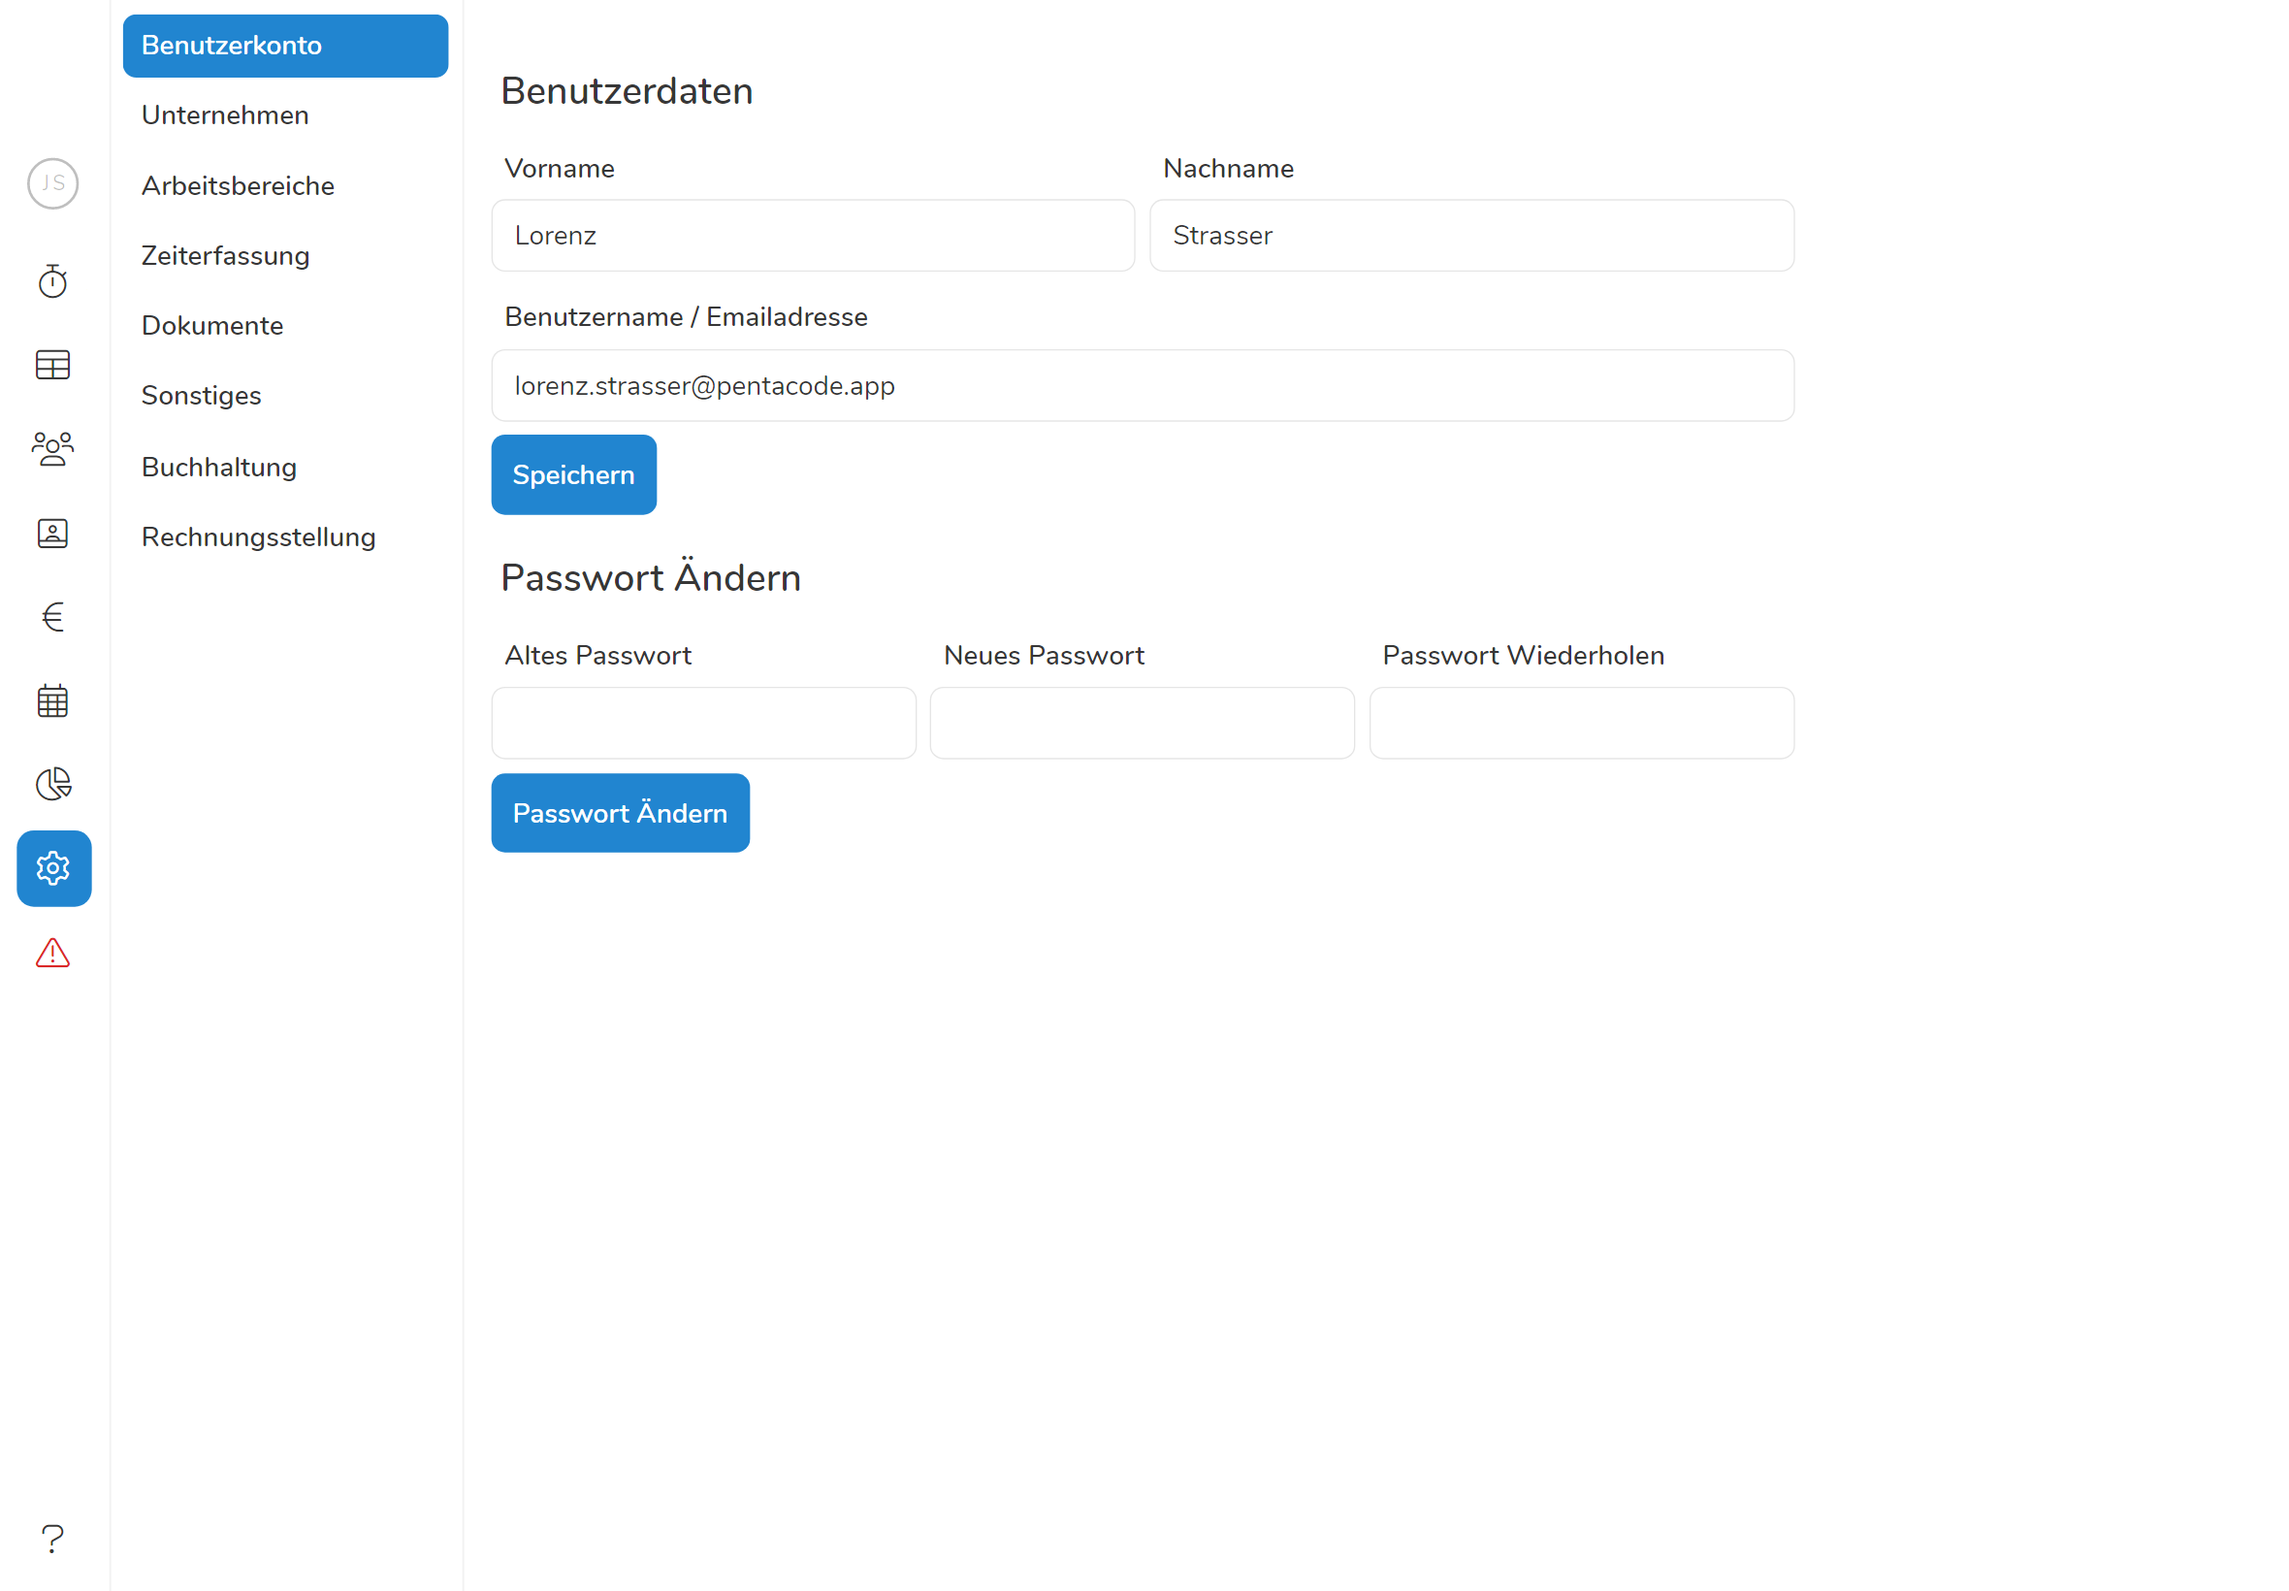
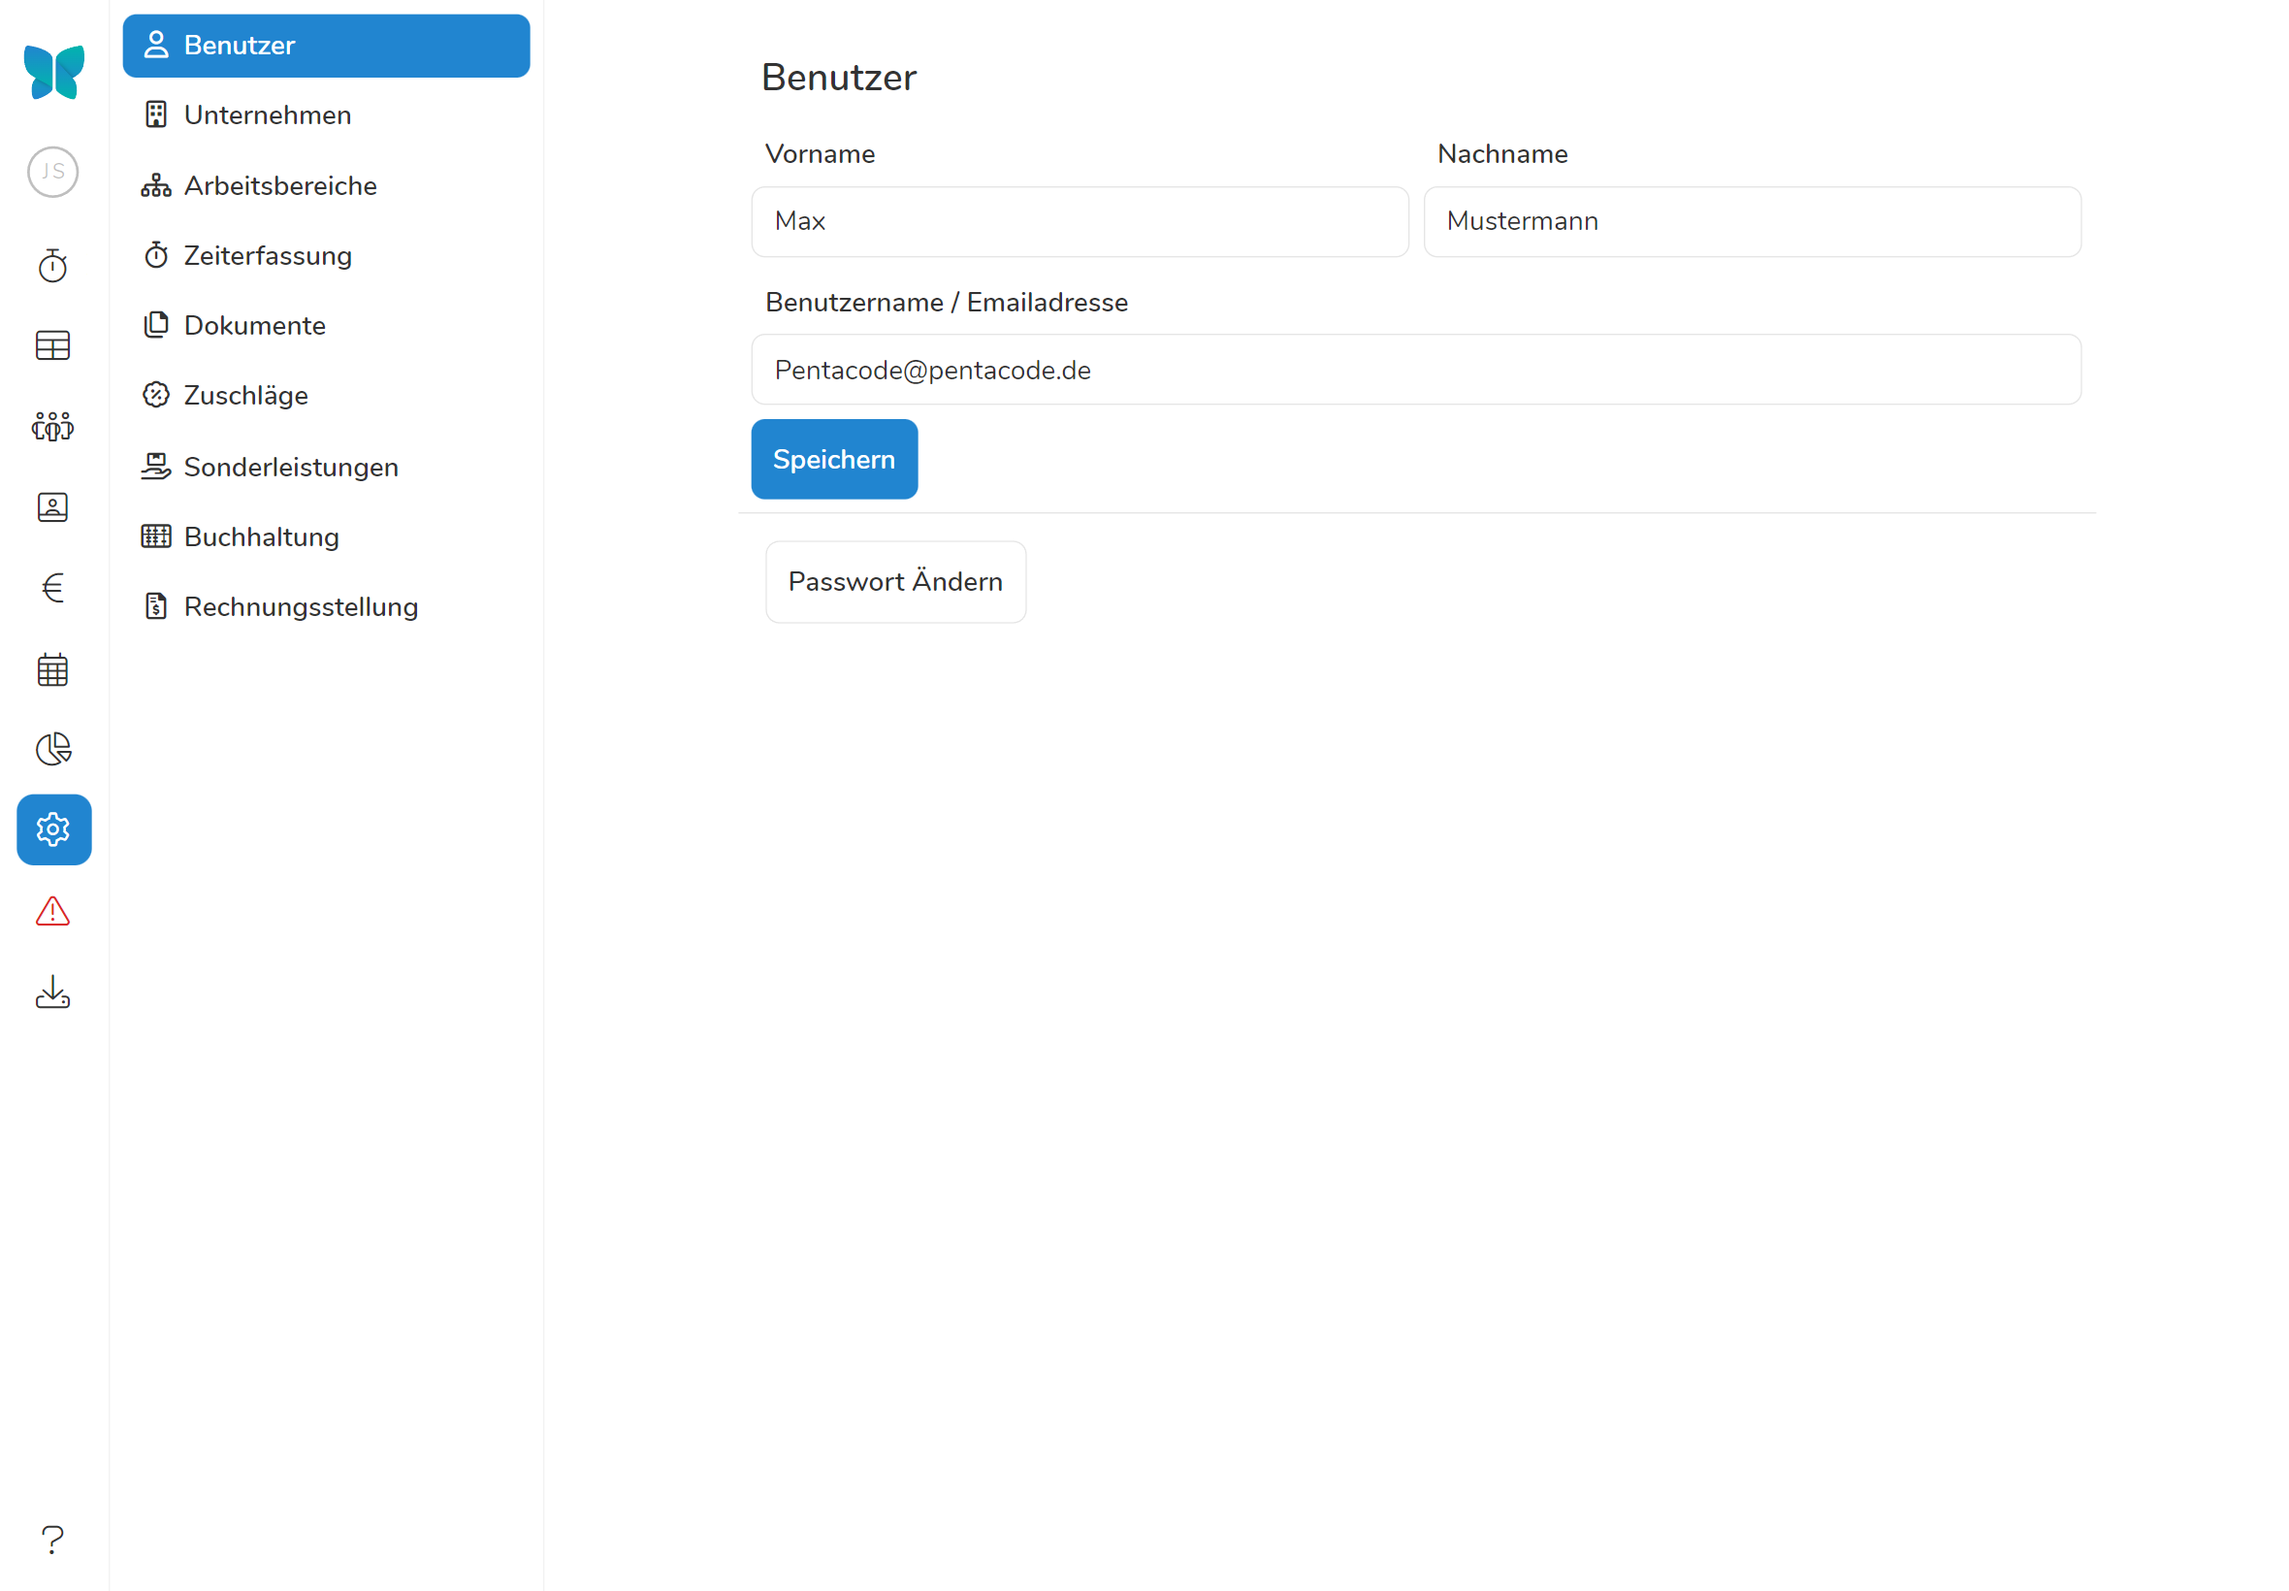
Update Einstellungen arbeitsbereiche+allgemein (#70)

diff --git a/hilfe/handbuch/einstellungen/unternehmen/index.md b/hilfe/handbuch/einstellungen/unternehmen/index.md
@@ -5,9 +5,79 @@ weight: 2
 icon: building
 
 ---
-Die hier hinterlegten Unternehmensdaten dienen lediglich zur allgemeinen Information.
+Unter dem Reiter **Unternehmen** können Sie verschiedene Unternehmendaten hinterlegen und gleichzeitig allgemeine Einstellungen für alle ihre Mitarbeiter treffen. Die Adressdaten dienen dabei lediglich der Information und haben keinen weiteren Einfluss. 
 
-Eine Änderung der Adressdaten hat keinerlei sonstige Auswirkung. 
+## Beginn der Kontoführung
+
+Unter "**Kontoführung ab**" legen Sie fest, ab welchem **Zeitpunkt** die **Arbeitszeitkonten** Ihrer Mitarbeiter in Pentacode geführt werden.
+
+Urlaube, SFN-Zuschläge und Lohnkosten werden in Pentacode auch **bruchteilig berechnet**. Für die Einheitlichkeit der Buchhaltung und eine später bessere Nachvollziehbarkeit ist es jedoch **empfehlenswert**, den **ersten eines Monats** zu wählen.
+
+## Saldierung SFN-Konten
+
+Für die Saldierung von [SFN-Konten](/hilfe/handbuch/mitarbeiter/konten#sfn-konto) bietet Ihnen Pentacode zwei Optionen:
+
+### Exklusive Beitragspflichtige Zuschläge
+
+Ist diese Option gewählt, werden bei der Saldierung des SFN-Kontos nur beitragsfreie Zuschläge berücksichtigt. Dies ist die Standardvariante.
+
+### Inklusive Beitragspflichtige Zuschläge
+
+Ist diese Option gewählt, werden bei der Saldierung des SFN-Kontos neben beitragsfreien Zuschläge auch beitragpflichtige
+Zuschläge berücksichtigt.
+
+## Arbeitszeiten & Konten Festschreiben
+
+Einer der großen Vorteile der Arbeitszeitdokumentation in Pentacode ist der Umstand, dass Sie jederzeit "in die
+Vergangenheit reisen" und Korrekturen an bereits erfassten Arbeitszeiten vornehmen können. Pentacode berechnet dabei
+automatisch alle betroffenen Lohnabrechnungen und Konten neu und liefert damit jederzeit eine **in sich stimmige,
+wiederspruchsfreie Dokumentation**.
+
+Diese Flexibilität bringt allerdings auch Gefahren mit sich. So kann zum Beispiel die Änderung an einer Arbeitszeit in
+an einem bereits abgeschlossenen Monat schnell zu Unstimmigkeiten mit bereits durchgeführten Lohnabrechnungen führen.
+Desweiteren können Änderungen an bestimmten Vertragsdaten oder Zeiterfassungs-Einstellungen ebenfalls zu einer
+ungewünschten, rückwirkenden Neuberechnung von Konten und Lohnabrechungen führen.
+
+Es ist deshalb ratsam, Arbeitszeiten, Mitarbeiterkonten und Lohnabrechnungen in regelmäßigen Abständen festzuschreiben.
+Dies tun sie wie folgt:
+
+1. Navigieren Sie zum Punkt **Einstellungen > Unternehmen**.
+2. Unter dem Punk **Arbeitszeiten & Konten festschreiben**, klicken sie auf den Button {% icon "pencil-alt" %} **Bearbeiten**.
+3. Klicken Sie auf **Zeitraum wählen...** und wählen Sie den Monat, bis zu welchem Arbeitszeiten und Konten festgeschrieben werden sollen.
+4. Klicken sie auf **Bestätigen**.
+
+{% figure caption="Unter dem Punkt Einstellungen > Sonstiges können Sie ein Festschreibungsdatum für Arbeitszeiten und Konten festlegen." %}
+<img src="zeiten_festschreiben.png" />
+{% endfigure %}
+
+## Berechnung Gesetzliche Pause
+
+Als Teil der Arbeitszeitdokumentation überwacht Pentacode automatisch alle erfassten Arbeitszeiten auf bestimmte
+Regelvorstöße. Einer dieser Regeln ist die gesetzlich vorgeschriebene Mindest-Pausenlänge, die von der Dauer der Schicht
+bzw. Arbeitszeit abhängt. Für die Berechnung der gesetzlichen Pause sind zwei Möglichkeiten zur Verfügung gestellt:
+
+### Standard
+
+In diesem Modus werden die Pausen nach der **Anwesenheitszeit** berechnet. Nach **mehr als 6 Stunden** Anwesenheitszeit
+wird eine minimale Pauselänge von **30 Minuten Pause** erwartet, nach insgesamt **mehr als 9 Stunden** kommen weitere
+**15 Minuten** hinzu, also insgesamt 45 Minuten. Konkret sieht die Staffelung wie folgt aus:
+
+| Dauer       | Mindestpause |
+| ----------- | ------------ |
+| <= 6:00     | 0 min        |
+| 6:01 - 9:00 | 30 min       |
+| > 9:00      | 45 min       |
+
+### Iterativ
+
+In diesem Modus werden die **Pausen nach** der **Arbeitszeit** berechnet. Dem Mitarbeiter werden nach mehr als 6 Stunden 30 Minuten Pause abgezogen. Er hat somit 5,5 Stunden gearbeitet. Erst wenn er weitere mehr als 3,5 Stunden gearbeitet hat (insgesamt also mehr als 9 Stunden), fallen weitere 15 Minuten Pause an. Die konkrete Staffelung sieht wie folgt aus:
+
+| Dauer       | Mindestpause |
+| ----------- | ------------ |
+| <= 6:00     | 0 min        |
+| 6:01 - 9:30 | 30 min       |
+| > 9:30      | 45 min       |
+
 
 {% figure caption="Angaben zum Unternehmen und allgemeine Kontaktdaten" %}
 

diff --git a/hilfe/handbuch/einstellungen/arbeitsbereiche/index.md b/hilfe/handbuch/einstellungen/arbeitsbereiche/index.md
@@ -33,7 +33,7 @@ gesetzlich geregelten Feiertage werden automatisch an- und abgewählt. Sie haben
 jedoch immer auch die Option [**manuell Feiertage ab- und anzuwählen**](#feiertage-bearbeiten).
 
 {% figure caption="So legen Sie einen neuen Standort an." %}
-<img src="neuer-standort.png"/>
+<img src="neuer_standort.webp"/>
 {% endfigure %}
 
 Wenn Sie den Standort angelegt haben, legen Sie für diesen Standort die 
@@ -45,13 +45,13 @@ Der neue Standort und seine Abteilungen erscheinen unter dem Menüpunkt "Alle Mi
 
 Wenn Sie einen [neuen Standort anlegen](#neuer-standort) oder
 [bearbeiten](#standort-bearbeiten), werden die Feiertage vorerst standardmäßig
-für das ausgewählte Bundeland festgelegt. Sollten Sie die Feiertage jedoch
+für das ausgewählte Bundesland festgelegt. Sollten Sie die Feiertage jedoch
 ändern wollen, können Sie diese ganz einfach über das Dialogfenster beim
 Bearbeiten des Standorts tun. Klicken Sie dazu auf den Schieberegler, bis dieser bei nicht
-gewünschte Feiertagen weiß erscheint und bei gewünschten Feiertage blau. 
+gewünschten Feiertagen weiß erscheint und bei gewünschten Feiertage blau. 
 
-{% figure caption="Ein neuer Standort soll zwei zusätzliche Feiertage anerkennen." %}
-<img src = "standort_anlegen.gif"/>
+{% figure caption="Die Feiertage eines neuen Standorts sollen angepasst werden." %}
+<img src = "standort_feiertage.gif"/>
 {% endfigure %}
 
 ## Standort bearbeiten
@@ -61,19 +61,13 @@ Sie Angaben zu einem Standort ändern oder ergänzen, indem Sie **"Standort
 Bearbeiten"** wählen. Sie kommen so in das gleiche Menü welches
 [hier](#neuer-standort) beschrieben ist.
 
-{% figure caption="So können Sie einen bestehenden Standort bearbeiten" %}
-
-<img src = "standort_bearbeiten.png"/>
-
-{% endfigure %}
-
 ## Standort archivieren
 
 Wenn Sie einen Standort **nicht mehr benötigen** sollten und auch nicht wollen, dass dieser weiterhin in Ihrer Datenbank erscheint, können Sie ihn über das {% icon "archive" %}-Symbol **archivieren**. Der Standort ist dann nicht mehr sichtbar, alle Daten, also alle Angaben zu Mitarbeitern, Arbeitszeiten und Kassenbuch bleiben jedoch erhalten.
 
 {% figure caption="So können Sie einen bestehenden Standort archivieren" %}
 
-<img src = "standort_archivieren.png"/>
+<img src = "archivieren_standort.webp"/>
 
 {% endfigure %}
 
@@ -87,11 +81,9 @@ Jede Abteilung muss **mindestens eine Position** ausweisen. Sollten Sie innerhal
 
 {% figure caption="So legen Sie eine neue Abteilung an" %}
 
-<img src = "neue_abteilung.png"/>
+<img src = "neue_abteilung.webp"/>
 
 {% endfigure %}
-
-Sie können zusätzlich auswählen ob SFN Zuschläge für Mitarbeiter in dieser Abteilung beitragspflichtig sind. Standardmäßig gelten diese als beitragsbefreit. 
 
 ## Abteilung bearbeiten
 
@@ -105,7 +97,7 @@ Wenn Sie eine Abteilung **nicht mehr benötigen** sollten und auch nicht wollen,
 
 {% figure caption="So können Sie eine Abteilung archivieren" %}
 
-<img src = "abteilung_archivieren.png"/>
+<img src = "abteilung_archivieren.webp"/>
 
 {% endfigure %}
 
@@ -115,10 +107,4 @@ Sollten Sie eine archivierte Abteilung wiederherstellen wollen, wenden Sie sich 
 
 Die Abteilungen sind in der **Reihenfolge** gelistet, in der Sie die Abteilungen beim Einrichten Ihrer Datenbank angelegt haben. In dieser Reihenfolge erscheinen sie auch im **Dienstplan**.
 
-Sie können diese **Reihenfolge** jederzeit **ändern**, indem sie mit einem **Mouse -over** die Abteilung über die **Pfeile** am rechten Rand nach oben oder unten **verschieben**.
-
-{% figure caption="So ändern Sie die Reihenfolge der Abteilungen für den Dienstplan" %}
-
-<img src = "abteilungen_verschieben.png"/>
-
-{% endfigure %}
+Sie können diese **Reihenfolge** jederzeit **ändern**, indem Sie eine Abteilung einfach per **drag-and-drop** in eine neue Position verschieben. 

diff --git a/hilfe/handbuch/einstellungen/benutzerkonto/index.md b/hilfe/handbuch/einstellungen/benutzerkonto/index.md
@@ -1,6 +1,6 @@
 ---
 layout: layouts/hilfe/single.njk
-title: Benutzerkonto
+title: Benutzer
 weight: 1
 icon: unlock-alt
 keywords:
